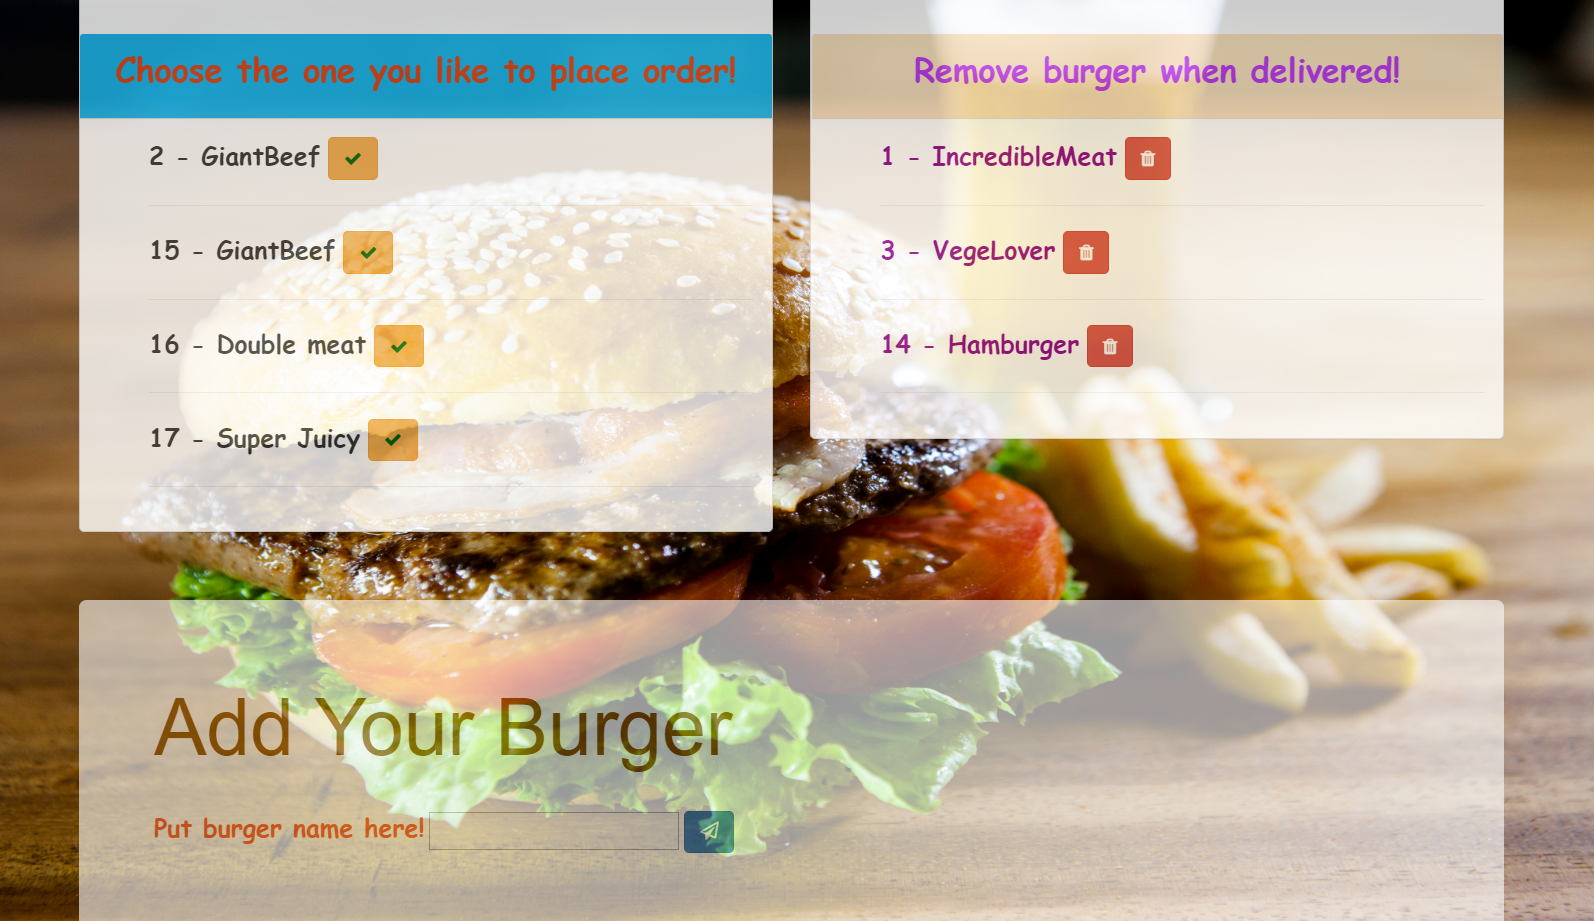
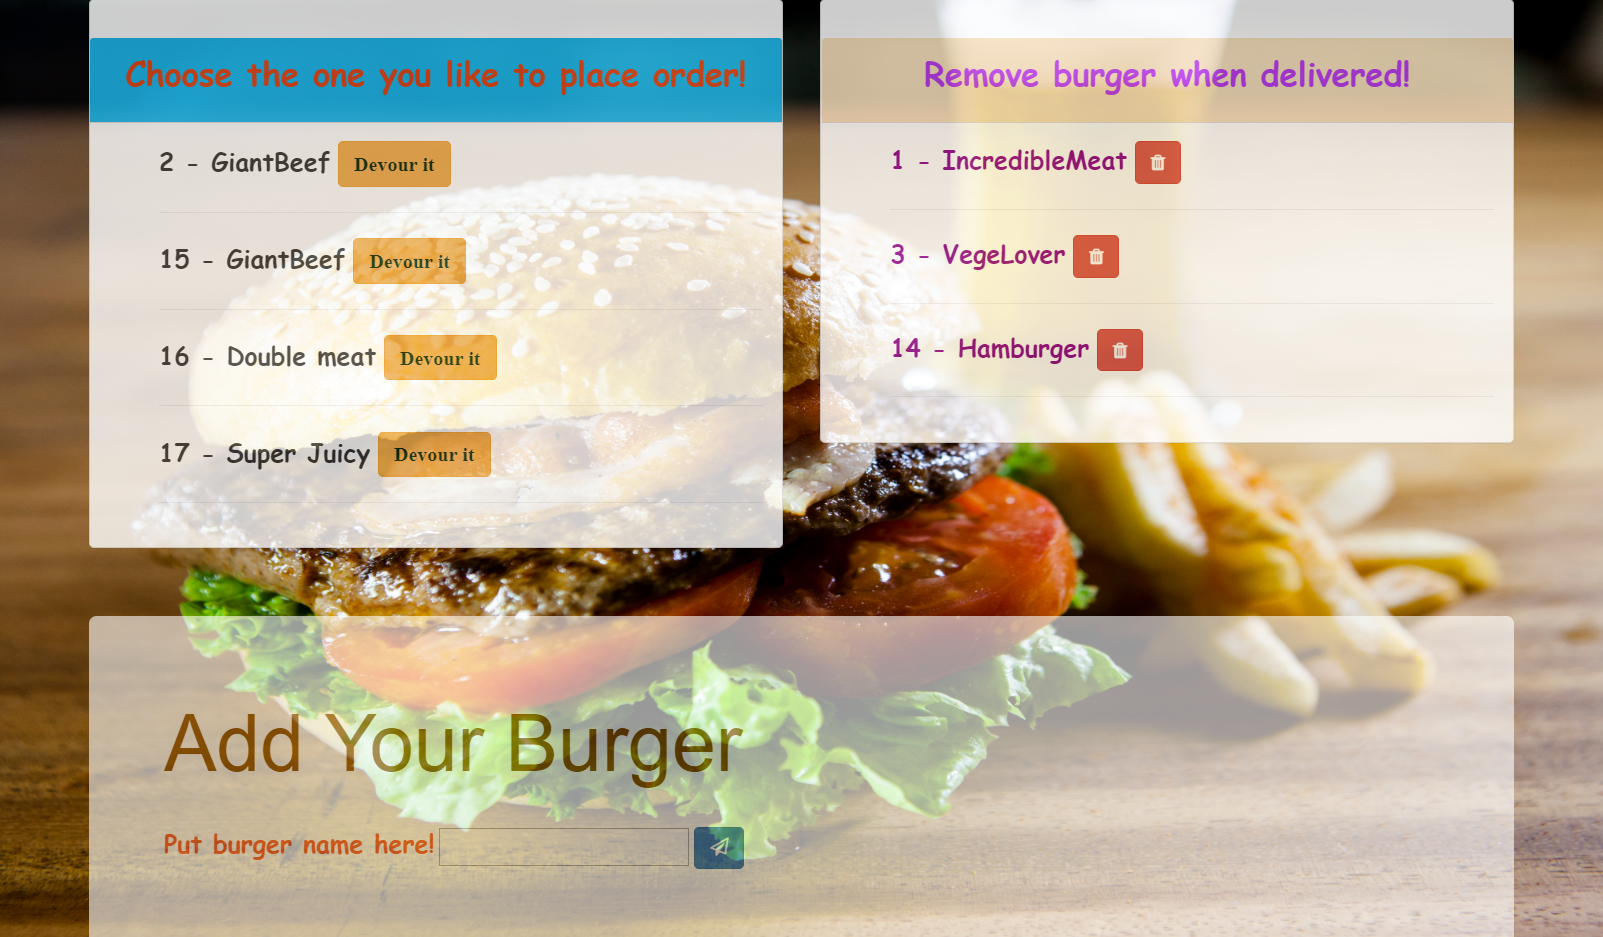
update screenshot

diff --git a/public/assets/css/burger_style.css b/public/assets/css/burger_style.css
@@ -24,7 +24,10 @@ body{
   font-family: cursive;
 }
 .eatburger{
-  color: darkgreen;
+  color: rgb(6, 39, 6);
+  font-size: 16px;
+  font-weight: bold;
+  font-family: 'Times New Roman', Times, serif;
 }
 
 #delPanel{
